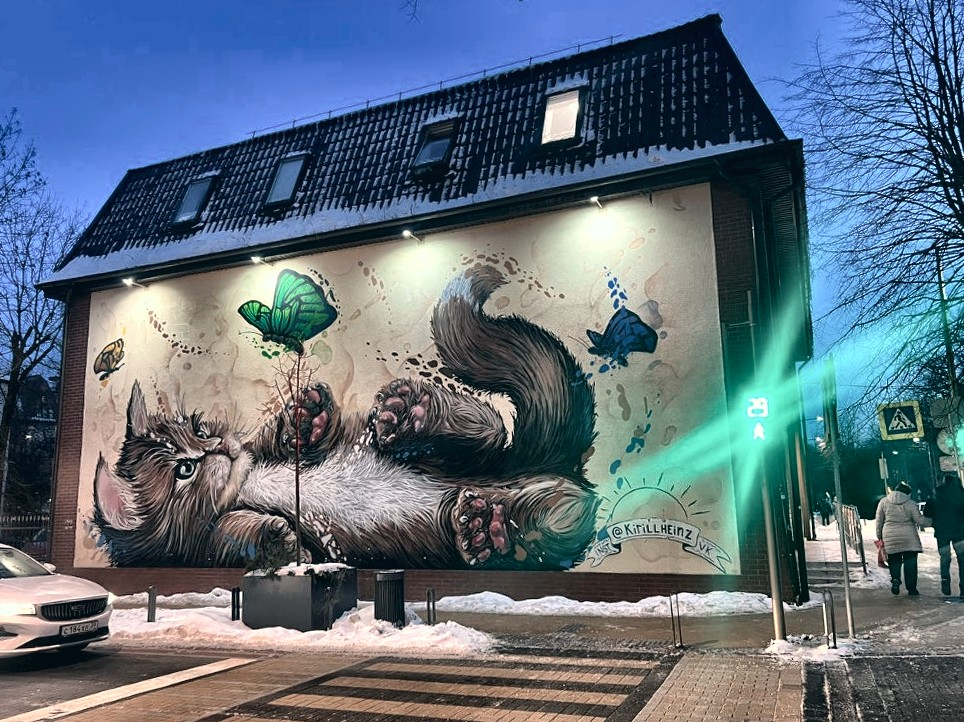
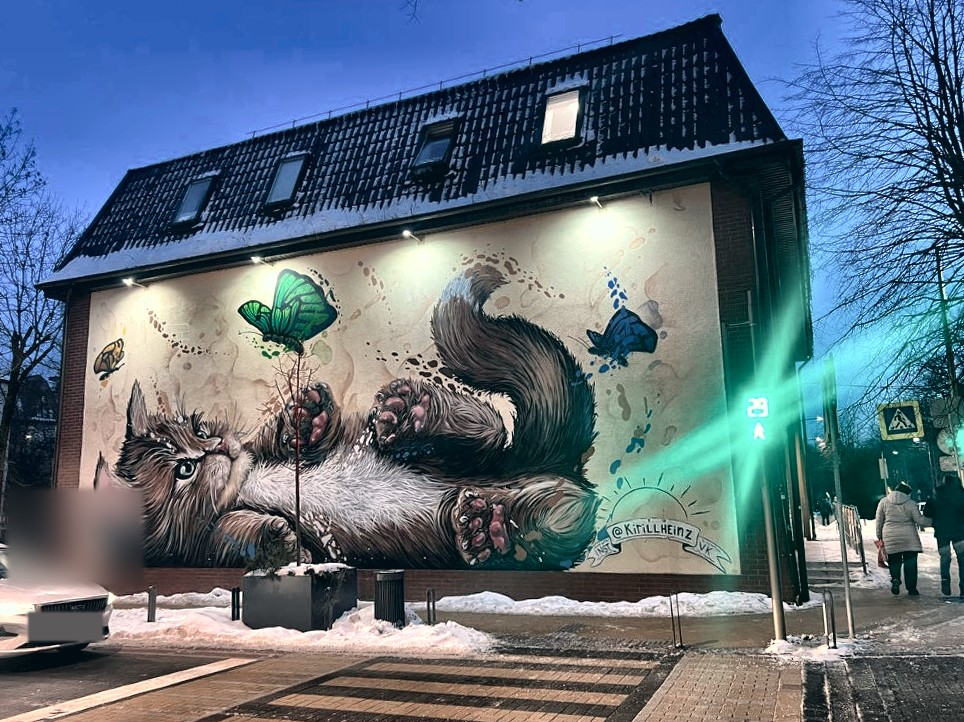
cmt

Changed region(s): [[0.0, 0.6704, 0.1556, 0.9141]]

diff --git a/components/landing.tsx b/components/landing.tsx
@@ -4,8 +4,6 @@ import { site } from "@/lib/site";
 import { portfolio } from "@/lib/portfolio";
 import { MessengerLinks } from "@/components/Messengers";
 
-const heroTiles = [...portfolio, portfolio[14], portfolio[17]];
-
 function Section({
   id,
   children,
@@ -22,22 +20,42 @@ function Section({
   );
 }
 
+function HeroCollage({
+  copy,
+  priority = false,
+}: {
+  copy: string;
+  priority?: boolean;
+}) {
+  return (
+    <div className="grid h-full w-1/2 shrink-0 grid-cols-4 grid-rows-6 gap-px lg:grid-cols-6 lg:grid-rows-4">
+      {portfolio.map((item, index) => (
+        <div
+          key={`${copy}-${item.src}`}
+          className={`relative overflow-hidden ${index >= 20 ? "col-span-2" : ""}`}
+        >
+          <Image
+            src={item.src}
+            alt=""
+            fill
+            priority={priority && index < 12}
+            className="object-cover"
+            sizes="(max-width: 1024px) 50vw, 33vw"
+          />
+        </div>
+      ))}
+    </div>
+  );
+}
+
 export function Hero() {
   return (
     <section id="top" className="relative h-[88vh] min-h-[36rem] overflow-hidden">
-      <div className="absolute inset-0 grid grid-cols-4 grid-rows-6 gap-px bg-[#111418] lg:grid-cols-6 lg:grid-rows-4">
-        {heroTiles.map((item, index) => (
-          <div key={`${item.src}-${index}`} className="relative overflow-hidden">
-            <Image
-              src={item.src}
-              alt=""
-              fill
-              priority={index < 12}
-              className="object-cover"
-              sizes="(max-width: 1024px) 25vw, 17vw"
-            />
-          </div>
-        ))}
+      <div className="absolute inset-0 overflow-hidden bg-[#111418]" aria-hidden>
+        <div className="flex h-full w-[200%] will-change-transform animate-hero-marquee motion-reduce:animate-none">
+          <HeroCollage copy="a" priority />
+          <HeroCollage copy="b" />
+        </div>
       </div>
       <div className="absolute inset-0 bg-gradient-to-r from-[#111418] via-[#111418]/88 to-[#111418]/55" />
       <div className="relative mx-auto flex h-full max-w-6xl flex-col justify-end px-4 pb-16 pt-28 sm:px-6 sm:pb-24">

diff --git a/app/globals.css b/app/globals.css
@@ -4,6 +4,13 @@
   --font-sans: var(--font-manrope);
   --color-background: #111418;
   --color-foreground: #e8ecef;
+  --animate-hero-marquee: hero-marquee 110s linear infinite;
+}
+
+@keyframes hero-marquee {
+  to {
+    transform: translate3d(-50%, 0, 0);
+  }
 }
 
 html {

diff --git a/scripts/process-photos.py b/scripts/process-photos.py
@@ -175,6 +175,51 @@ def save_jpg(path: Path, bgr: np.ndarray) -> None:
     cv2.imwrite(str(path), bgr, [int(cv2.IMWRITE_JPEG_QUALITY), 90])
 
 
+# Pixel boxes on the processed JPGs (x1, y1, x2, y2).
+PLATE_BOXES = {
+    "03-mural-street": (28, 612, 102, 640),
+}
+DRIVER_BOXES = {
+    "03-mural-street": (0, 482, 150, 592),
+}
+
+
+def paint_plate(bgr: np.ndarray, box: tuple[int, int, int, int]) -> None:
+    x1, y1, x2, y2 = box
+    sample = bgr[max(0, y1 - 14) : y1, x1:x2]
+    if sample.size:
+        color = tuple(int(c) for c in sample.mean(axis=(0, 1)))
+    else:
+        color = (28, 28, 28)
+    cv2.rectangle(bgr, (x1, y1), (x2, y2), color, thickness=-1)
+    pad = 3
+    ry1, ry2 = max(0, y1 - pad), min(bgr.shape[0], y2 + pad)
+    rx1, rx2 = max(0, x1 - pad), min(bgr.shape[1], x2 + pad)
+    bgr[ry1:ry2, rx1:rx2] = cv2.GaussianBlur(bgr[ry1:ry2, rx1:rx2], (5, 5), 0)
+
+
+def blur_driver(bgr: np.ndarray, box: tuple[int, int, int, int]) -> None:
+    x1, y1, x2, y2 = box
+    roi = bgr[y1:y2, x1:x2]
+    blurred = cv2.GaussianBlur(roi, (71, 71), 0)
+    blurred = cv2.GaussianBlur(blurred, (71, 71), 0)
+    h, w = roi.shape[:2]
+    mask = np.zeros((h, w), np.float32)
+    inset = 6
+    cv2.rectangle(mask, (inset, inset), (max(w - inset - 1, inset), max(h - inset - 1, inset)), 1, -1)
+    mask = cv2.GaussianBlur(mask, (15, 15), 0)[:, :, None]
+    roi[:] = (blurred * mask + roi * (1.0 - mask)).astype(np.uint8)
+
+
+def redact_privacy(name: str, bgr: np.ndarray) -> np.ndarray:
+    out = bgr.copy()
+    if name in PLATE_BOXES:
+        paint_plate(out, PLATE_BOXES[name])
+    if name in DRIVER_BOXES:
+        blur_driver(out, DRIVER_BOXES[name])
+    return out
+
+
 def main() -> None:
     DEST.mkdir(parents=True, exist_ok=True)
     for old in DEST.glob("*"):
@@ -199,7 +244,7 @@ def main() -> None:
     print("target LAB", target.tolist())
 
     for dest_name, img in processed:
-        unified = match_to_target(img, target)
+        unified = redact_privacy(dest_name, match_to_target(img, target))
         save_jpg(DEST / f"{dest_name}.jpg", unified)
 
     dusk = next(img for name, img in processed if name == "18-house-dusk")
